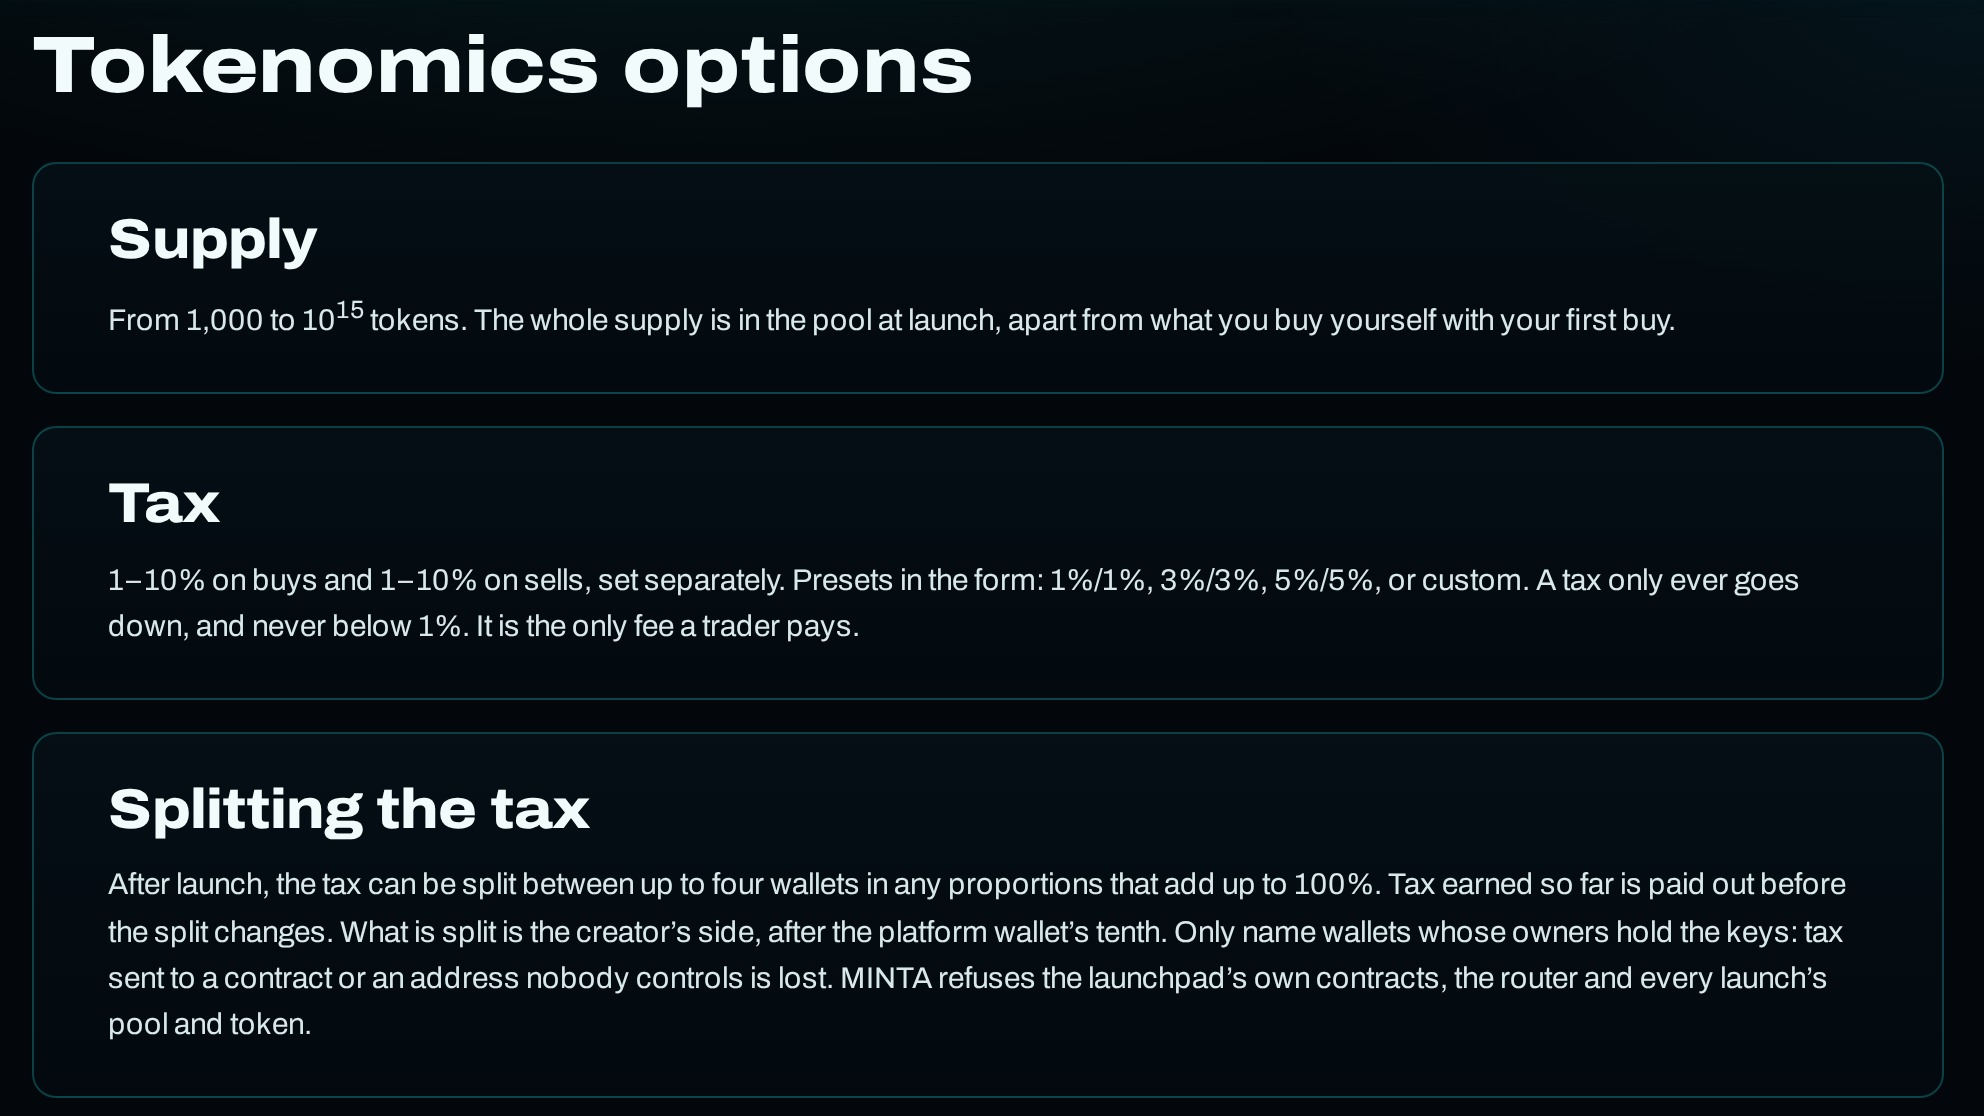
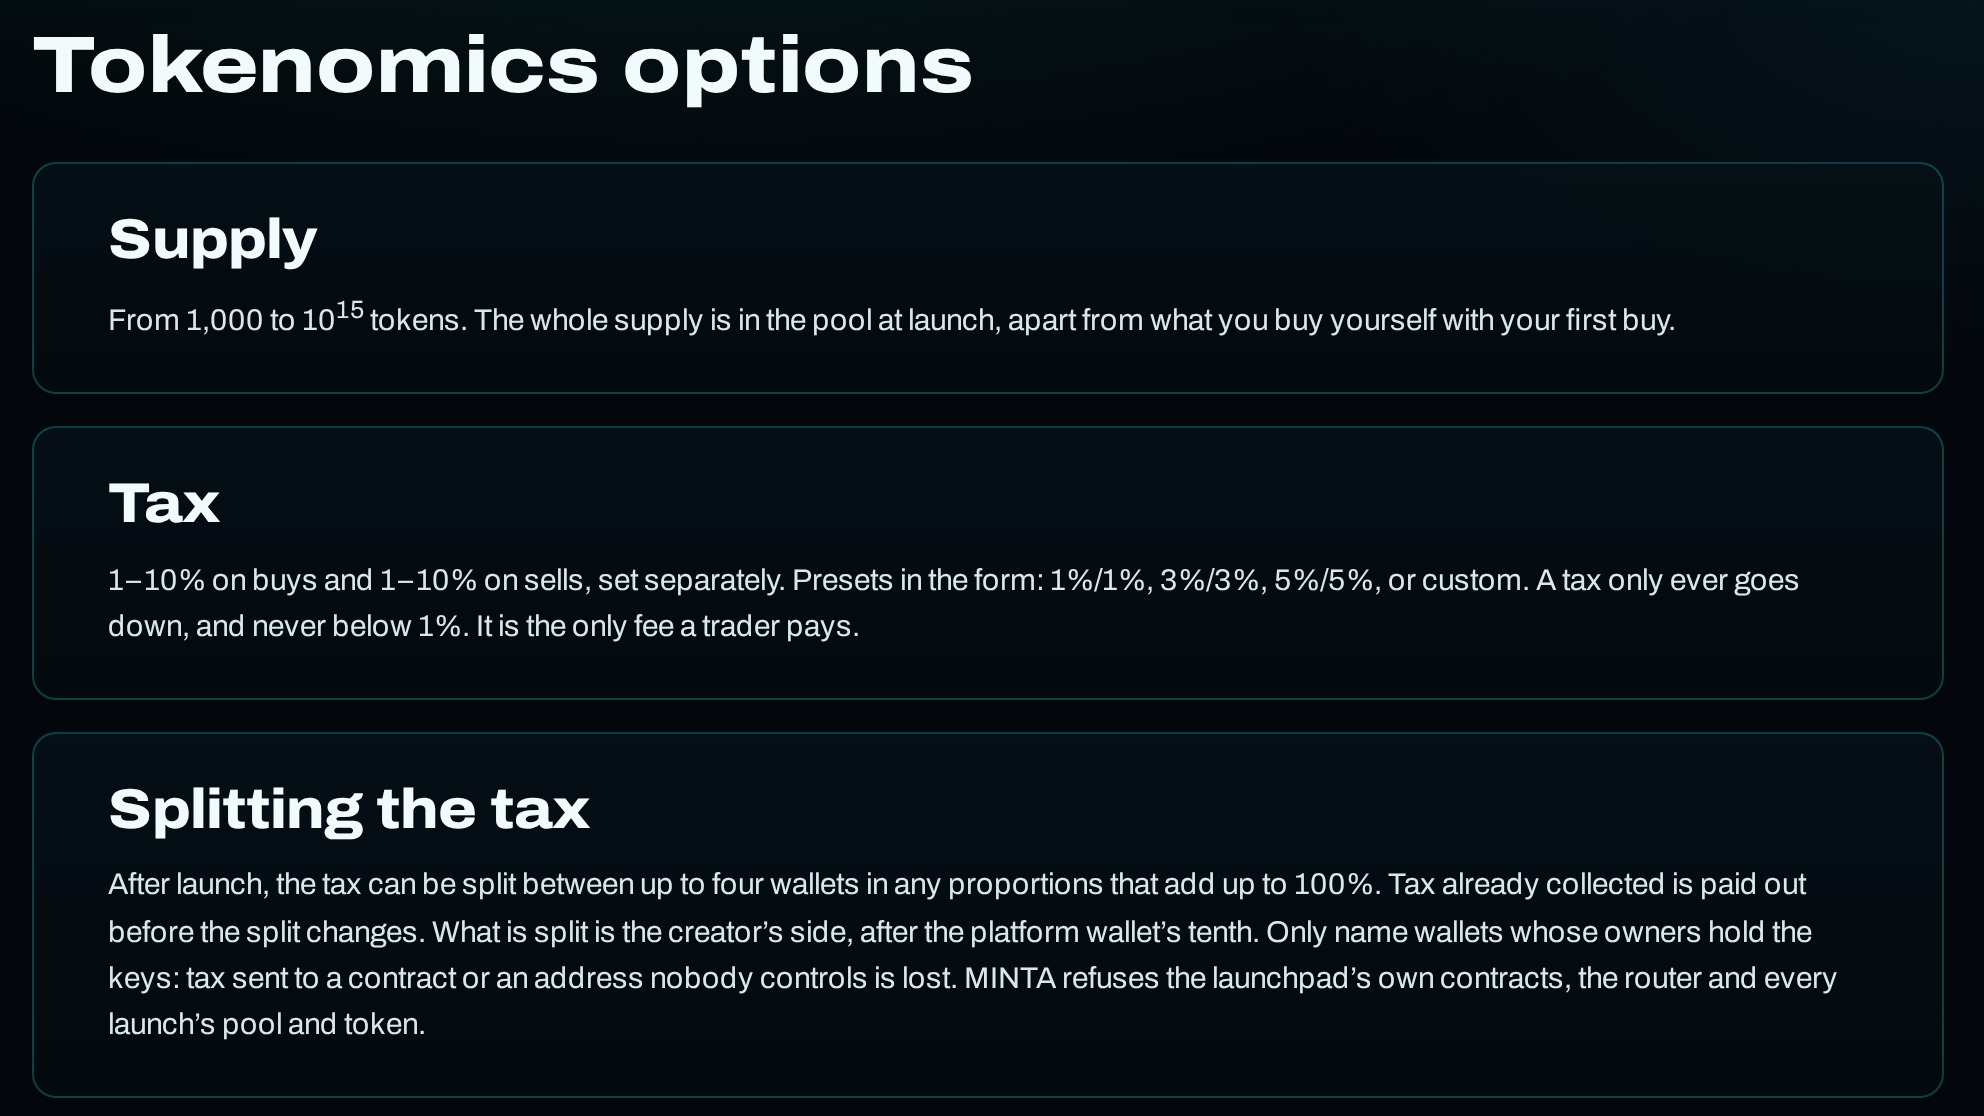
Neutral wording for Google Play: where a creator's tax goes is stated as a fact, with no earning wording in the store texts, pictures or first pages

Changed region(s): [[0.0625, 0.7616, 0.9375, 0.9444]]

diff --git a/src/pages/Docs.tsx b/src/pages/Docs.tsx
@@ -91,7 +91,7 @@ const ARTICLES: Article[] = [
         id: 'what-is-minta', title: 'What is MINTA?', label: 'Introduction', nav: 'What is MINTA?', art: 'whatis',
         body: (
           <>
-            <p>MINTA is a launchpad on the VYRE chain. Anyone can create a token in one transaction, trade it with USDC, and {NETWORK.testnet ? 'earn a tax on every trade of a token they created' : 'receive the creator’s tax on every trade of a token they created (a tenth of each payout goes to the platform wallet)'}.</p>
+            <p>MINTA is a launchpad on the VYRE chain. Anyone can create a token in one transaction and trade it with USDC. {NETWORK.testnet ? 'The token’s creator sets a tax that applies to every trade of it' : 'The token’s creator sets a tax that applies to every trade of it (a tenth of each payout goes to the platform wallet)'}.</p>
             <p>Each token’s whole supply goes into its own pool from the first block, and that pool’s liquidity can’t be removed (see Liquidity in the pool, below). There is no approval step, no schedule and no waiting list: you launch when you like, and the token is trading in the same moment.</p>
           </>
         ),
@@ -102,7 +102,7 @@ const ARTICLES: Article[] = [
           <div className="feat-grid">
             <div><Icon name="bolt" /><b>Easy token creation</b><p>Name it, set the supply and the tax, press Create. One transaction.</p></div>
             <div><Icon name="lock" /><b>Liquidity in the pool</b><p>The pool’s liquidity can’t be removed, by anyone. Only the launchpad adds to it. {LIQUIDITY_FACT}</p></div>
-            <div><Icon name="coin" /><b>Paid in USDC</b><p>{NETWORK.testnet ? 'Creators keep a tax of up to 10% on every trade, paid in USDC.' : 'Creators set a tax of 1% to 10% a side on every trade, paid in USDC; a tenth of each payout goes to the platform wallet.'} They can lower it later, never raise it.</p></div>
+            <div><Icon name="coin" /><b>Tax in USDC</b><p>{NETWORK.testnet ? 'Creators set a tax of up to 10% on every trade, paid in USDC.' : 'Creators set a tax of 1% to 10% a side on every trade, paid in USDC; a tenth of each payout goes to the platform wallet.'} They can lower it later, never raise it.</p></div>
             <div><Icon name="users" /><b>Your own wallet</b><p>Connect MetaMask, Rabby, Coinbase Wallet or any browser wallet. You keep your keys; MINTA never holds them.</p></div>
           </div>
         ),
@@ -127,7 +127,7 @@ const ARTICLES: Article[] = [
               : <li><b>Get USDC on VYRE.</b> The Wallet page moves USDC to VYRE from Arc. A withdrawal back to Arc takes about a day.</li>}
             <li><b>Create a token.</b> Pick its name, ticker, supply and tax. The launch happens in one transaction, with an optional first buy of your own in the same transaction.</li>
             <li><b>Trade.</b> Anyone can buy and sell with USDC, straight away. {NETWORK.testnet ? 'Every trade pays the platform fee and the creator’s tax in USDC.' : 'Every trade pays the creator’s tax in USDC, and nothing else is added.'}</li>
-            <li><b>Collect.</b> The creator collects the tax whenever they like, and can split it between up to four wallets.</li>
+            <li><b>Pay out.</b> The collected tax can be paid out whenever the creator likes, and can be split between up to four wallets.</li>
           </ol>
         ),
       },
@@ -201,24 +201,24 @@ const ARTICLES: Article[] = [
       { id: 'tax', title: 'Tax', body: NETWORK.testnet
         ? <p>0–10% on buys and 0–10% on sells, set separately. Presets in the form: no tax, 1%/1%, 3%/3%, 5%/5%, or custom. A tax only ever goes down.</p>
         : <p>1–10% on buys and 1–10% on sells, set separately. Presets in the form: 1%/1%, 3%/3%, 5%/5%, or custom. A tax only ever goes down, and never below 1%. It is the only fee a trader pays.</p> },
-      { id: 'split', title: 'Splitting the tax', body: <p>After launch, the tax can be split between up to four wallets in any proportions that add up to 100%. Tax earned so far is paid out before the split changes.{NETWORK.testnet ? '' : ' What is split is the creator’s side, after the platform wallet’s tenth.'} Only name wallets whose owners hold the keys: tax sent to a contract or an address nobody controls is lost. MINTA refuses the launchpad’s own contracts, the router and every launch’s pool and token.</p> },
+      { id: 'split', title: 'Splitting the tax', body: <p>After launch, the tax can be split between up to four wallets in any proportions that add up to 100%. Tax already collected is paid out before the split changes.{NETWORK.testnet ? '' : ' What is split is the creator’s side, after the platform wallet’s tenth.'} Only name wallets whose owners hold the keys: tax sent to a contract or an address nobody controls is lost. MINTA refuses the launchpad’s own contracts, the router and every launch’s pool and token.</p> },
       { id: 'first-buy', title: 'First buy', body: <p>Optional USDC you spend in the launch transaction, before anyone else can trade, at your own tax{NETWORK.testnet ? ' plus the platform fee' : ' (the only fee)'}.</p> },
     ],
   },
   {
     slug: 'fees',
-    title: 'Fees & revenue',
+    title: 'Fees',
     sections: [
       {
-        id: 'table', title: 'Who gets what',
+        id: 'table', title: 'Where the tax goes',
         body: (
           <>
-            <p>Every fee is taken in USDC, from the USDC side of the trade: out of what a buyer pays, or what a seller receives.{!NETWORK.testnet && ' The creator’s tax is the only fee a trade pays. When the tax is paid out, a tenth of it goes to the platform wallet and the rest to the creator’s tax wallets. For example, on a 1,000 USDC trade with a 5% tax the trader pays 50 USDC of tax; paid out, 5 USDC goes to the platform wallet and 45 USDC to the creator’s tax wallets. (Every transaction also pays the network fee, in USDC.)'}</p>
+            <p>Every fee is taken in USDC, from the USDC side of the trade: out of what a buyer pays, or what a seller receives.{!NETWORK.testnet && ' The creator’s tax is the only fee a trade pays. When the tax is paid out, a tenth of it goes to the platform wallet and the rest to the creator’s tax wallets. For example, on a 1,000 USDC trade with a 5% tax the tax is 50 USDC; of each payout, one tenth goes to the platform wallet and nine tenths to the creator’s tax wallets. (Every transaction also pays the network fee, in USDC.)'}</p>
             <div className="table-wrap">
               <table>
                 <thead><tr><th>Fee</th><th>Size</th><th>Goes to</th></tr></thead>
                 <tbody>
-                  <tr><td><b>Creator’s tax</b></td><td>{NETWORK.minTaxBps / 100}–10% per side</td><td className="wrap">{NETWORK.testnet ? 'The creator, or up to 4 wallets they name' : 'Nine tenths of each payout to the creator, or up to 4 wallets they name'}</td></tr>
+                  <tr><td><b>Creator’s tax</b></td><td>{NETWORK.minTaxBps / 100}–10% per side</td><td className="wrap">{NETWORK.testnet ? 'The creator, or up to 4 wallets they name' : 'Nine tenths of each payout to the creator’s tax wallets (up to 4 wallets the creator names)'}</td></tr>
                   {!NETWORK.testnet && <tr><td><b>Platform wallet’s tenth</b></td><td>One tenth of each payout of the tax</td><td className="wrap"><AddressLink address={PAD_V2.platformWallet} /></td></tr>}
                   {NETWORK.testnet && <tr><td><b>Platform fee</b></td><td>1% of every buy and sell</td><td className="wrap">The platform treasury set in the launchpad contracts {NETWORK.promoters ? '(less a promoter’s share, below)' : ''}</td></tr>}
                   {NETWORK.testnet && <tr><td><b>Partner fee</b></td><td>0–1%, only on launches through a partner launchpad</td><td className="wrap">The partner launchpad</td></tr>}
@@ -352,7 +352,7 @@ const GROUPS: Group[] = [
       { label: 'Launch model', icon: 'shield', article: 'launch-model' },
       { label: 'Launch lifecycle', icon: 'clock', article: 'lifecycle' },
       { label: 'Tokenomics options', icon: 'coin', article: 'tokenomics' },
-      { label: 'Fees & revenue', icon: 'fee', article: 'fees' },
+      { label: 'Fees', icon: 'fee', article: 'fees' },
     ],
   },
   {

diff --git a/src/pages/Manage.tsx b/src/pages/Manage.tsx
@@ -103,7 +103,7 @@ export default function Manage({ token }: { token: Address }) {
       {account && isOffered && (
         <div className="card">
           <h2 className="h3">You’ve been offered this launch</h2>
-          <p className="small">Accept to become its creator: its taxes (now {pct(launch.buyTaxBps)} buy, {pct(launch.sellTaxBps)} sell) go to you from then on. Tax earned until now goes where the current creator set it.</p>
+          <p className="small">Accept to become its creator: its taxes (now {pct(launch.buyTaxBps)} buy, {pct(launch.sellTaxBps)} sell) go to you from then on. Tax collected until now goes where the current creator set it.</p>
           <TxButton label="Accept" run={run({ functionName: 'acceptCreator', args: [token, launch.buyTaxBps, launch.sellTaxBps] }, 'You’re the creator now.')} />
         </div>
       )}
@@ -158,7 +158,7 @@ function TaxWallets({ launch, current, failed, retry, run }: { launch: Launch; c
   return (
     <div className="card">
       <h2 className="h3">Split the tax</h2>
-      <p className="small">Up to four wallets, each with a share of the creator’s side of the tax{NETWORK.testnet ? '' : ' (what is left after the platform wallet’s tenth)'}. Tax earned so far is paid out first, the old way. Use wallets you control: tax sent to a contract that can’t move it is lost.</p>
+      <p className="small">Up to four wallets, each with a share of the creator’s side of the tax{NETWORK.testnet ? '' : ' (what is left after the platform wallet’s tenth)'}. Tax already collected is paid out first, the old way. Use wallets you control: tax sent to a contract that can’t move it is lost.</p>
       {current ? <SplitEditor launch={launch} current={current} run={run} />
         : failed ? (
           <div className="split-failed" role="alert">

diff --git a/public/agents/index.html b/public/agents/index.html
@@ -82,7 +82,7 @@ Task: </pre>
     <section>
       <h2>The fee rule</h2>
       <p>The creator’s tax is the only fee a trader pays. The creator sets it at launch, 1% to 10% per side, and can lower it later, never raise it. When the tax is paid out, the platform takes a tenth of it and the creator’s tax wallets get the rest. No other fee is added; every transaction also pays the network fee, in USDC.</p>
-      <p>Example: a 1,000 USDC trade with a 5% tax pays 50 USDC of tax; paid out, 5 USDC goes to the platform wallet and 45 USDC to the creator’s tax wallets.</p>
+      <p>Example: a 1,000 USDC trade with a 5% tax pays 50 USDC of tax; of each payout, one tenth goes to the platform wallet and nine tenths to the creator’s tax wallets.</p>
     </section>
 
     <section>

diff --git a/src/lib/fees.ts b/src/lib/fees.ts
@@ -7,7 +7,7 @@ import { NETWORK } from './network';
 const main = !NETWORK.testnet;
 
 /** Where the creator's tax goes, for a line next to a tax figure ("paid to you" on the testnet) */
-export const TAX_GOES = main ? 'in USDC; a tenth goes to the platform wallet, the rest to you' : 'paid to you';
+export const TAX_GOES = main ? 'in USDC; a tenth goes to the platform wallet, the rest to the creator’s tax wallets' : 'paid to you';
 
 /** The creator-facing sentence under the tax choice on the Create page; `range` is "1 to 10%" */
 export const creatorTaxLine = (range: string) => main

diff --git a/src/pages/Explore.tsx b/src/pages/Explore.tsx
@@ -19,7 +19,7 @@ import { matches } from '../components/Search';
 
 const PAGE = 36;
 const TABS = [
-  { key: 'trending', label: 'Trending', icon: <path d="M13 3 5 14h6l-1 7 8-11h-6z" /> },
+  { key: 'trending', label: 'Most traded', icon: <path d="M13 3 5 14h6l-1 7 8-11h-6z" /> },
   { key: 'new', label: 'New', icon: <path d="M12 20v-8m0 0c0-4 3-6 8-6 0 4-3 6-8 6Zm0 0C12 8 9.5 6.5 4 6.5c0 3.5 2.5 5.5 8 5.5Z" /> },
   { key: 'graduated', label: 'Graduated', icon: <><circle cx="12" cy="9" r="5" /><path d="m9 13.5-1.5 7L12 18l4.5 2.5-1.5-7" /></> },
 ] as const;
